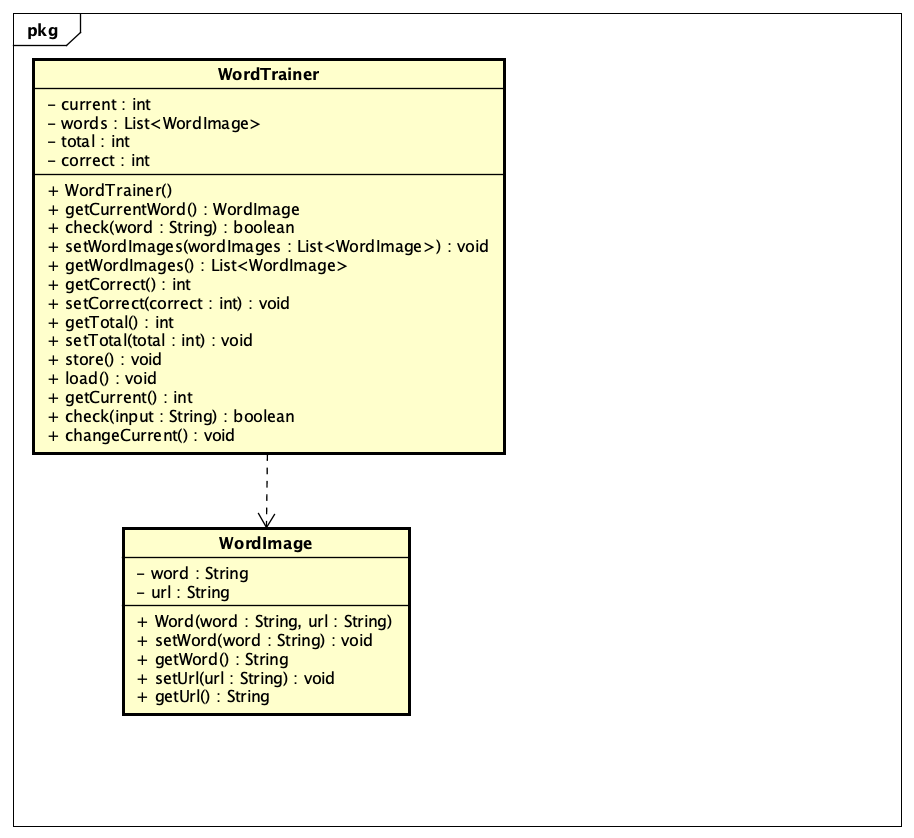
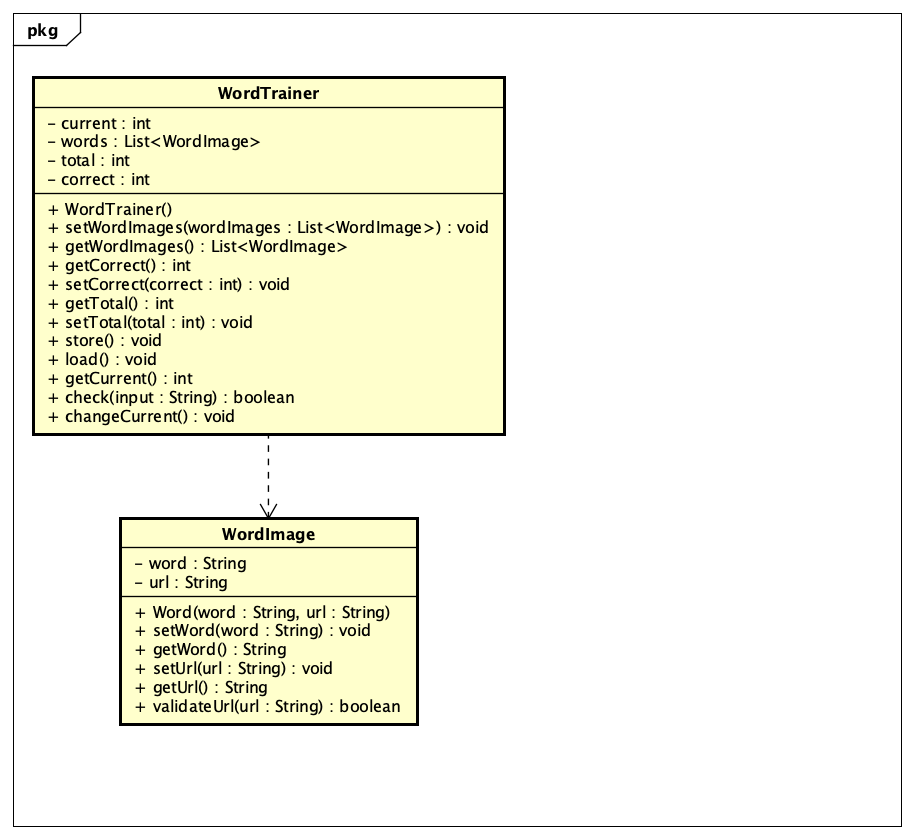
changed UML Diagram and implemented WordImage and WordTrainer

Changed region(s): [[0.0306, 0.0621, 0.5514, 0.5585], [0.1225, 0.5895, 0.4595, 0.8687]]

diff --git a/src/main/java/at/tlaber/model/WordTrainer.java b/src/main/java/at/tlaber/model/WordTrainer.java
@@ -1,0 +1,72 @@
+package at.tlaber.model;
+
+import java.util.List;
+import java.util.Random;
+
+public class WordTrainer {
+    private int current;
+    private List<WordImage> words;
+    private int total;
+    private int correct;
+
+    public WordTrainer() {
+        //TODO loading to be done
+    }
+
+    public WordImage getCurrent() {
+        return words.get(this.current);
+    }
+
+    public List<WordImage> getWordImages() {
+        return words;
+    }
+
+    public void setWordImages(List<WordImage> words) throws IllegalArgumentException{
+        if(words == null || words.size() == 0) {
+            throw new IllegalArgumentException("Word images cannot be empty");
+        }
+        this.words = words;
+    }
+
+    public int getTotal() {
+        return total;
+    }
+
+    public void setTotal(int total) throws IllegalArgumentException {
+        if(total < 0) {
+            throw new IllegalArgumentException("Total must be a positive integer");
+        }
+        this.total = total;
+    }
+
+    public int getCorrect() {
+        return correct;
+    }
+
+    public void setCorrect(int correct) throws IllegalArgumentException {
+        if(correct < 0) {
+            throw new IllegalArgumentException("Correct must be a positive integer");
+        }
+        this.correct = correct;
+    }
+
+    public void load() {
+        //TODO implement loading
+    }
+
+    public void store() {
+        //TODO implement storing
+    }
+
+    public boolean check(String input) {
+        return input.toLowerCase().equals(getCurrent().getWord().toLowerCase());
+    }
+
+    public void changeCurrent() {
+        int random;
+        do {
+            random = new Random().nextInt(words.size());
+        } while (random == current);
+        current = random;
+    }
+}

diff --git a/src/main/java/at/tlaber/model/WordImage.java b/src/main/java/at/tlaber/model/WordImage.java
@@ -1,0 +1,46 @@
+package at.tlaber.model;
+
+import java.net.MalformedURLException;
+import java.net.URL;
+
+public class WordImage {
+    private String word;
+    private String url;
+
+    public WordImage(String word, String url) {
+        setWord(word);
+        setUrl(url);
+    }
+
+    public String getWord() {
+        return word;
+    }
+
+    public void setWord(String word) throws IllegalArgumentException {
+        if( word == null || word.isEmpty() ) {
+            throw new IllegalArgumentException("Word cannot be null or empty");
+        }
+        this.word = word;
+    }
+
+    public String getUrl() {
+        return url;
+    }
+
+    public void setUrl(String url) throws IllegalArgumentException {
+        if( url == null || url.isEmpty() || !validateUrl(url)) {
+            throw new IllegalArgumentException("URL cannot be null or empty or is an invalid URL");
+        }
+        this.url = url;
+    }
+
+    public boolean validateUrl(String url) {
+        try {
+            URL urlNew = new URL(url);
+            return true;
+        }
+        catch(MalformedURLException e) {
+            return false;
+        }
+    }
+}
